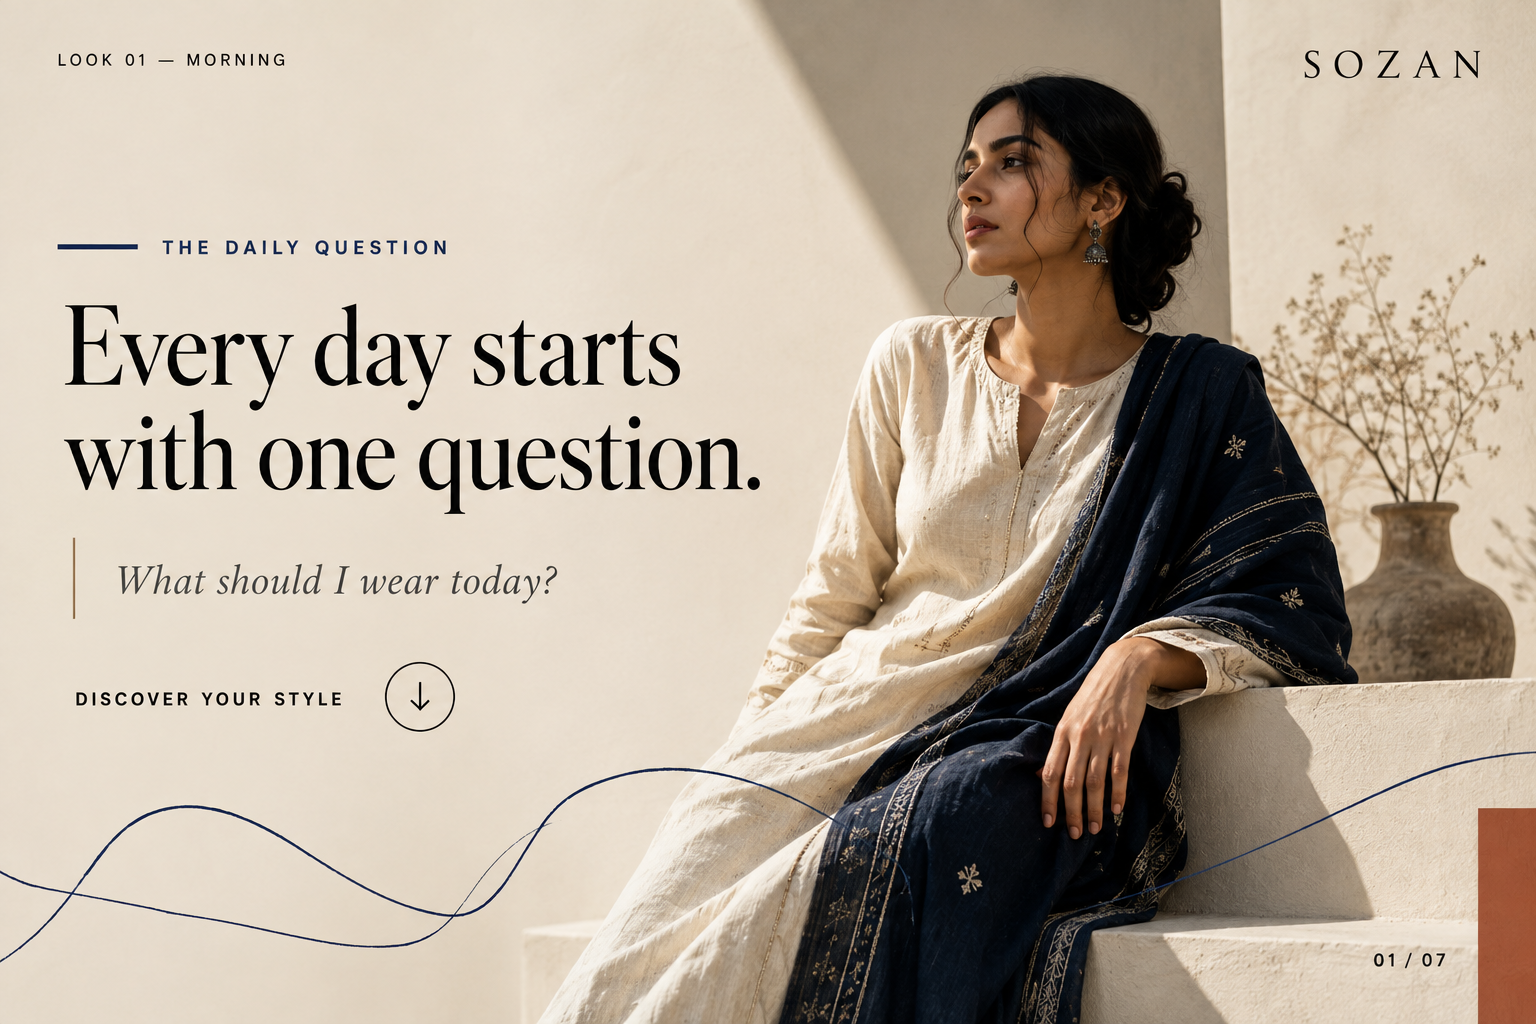
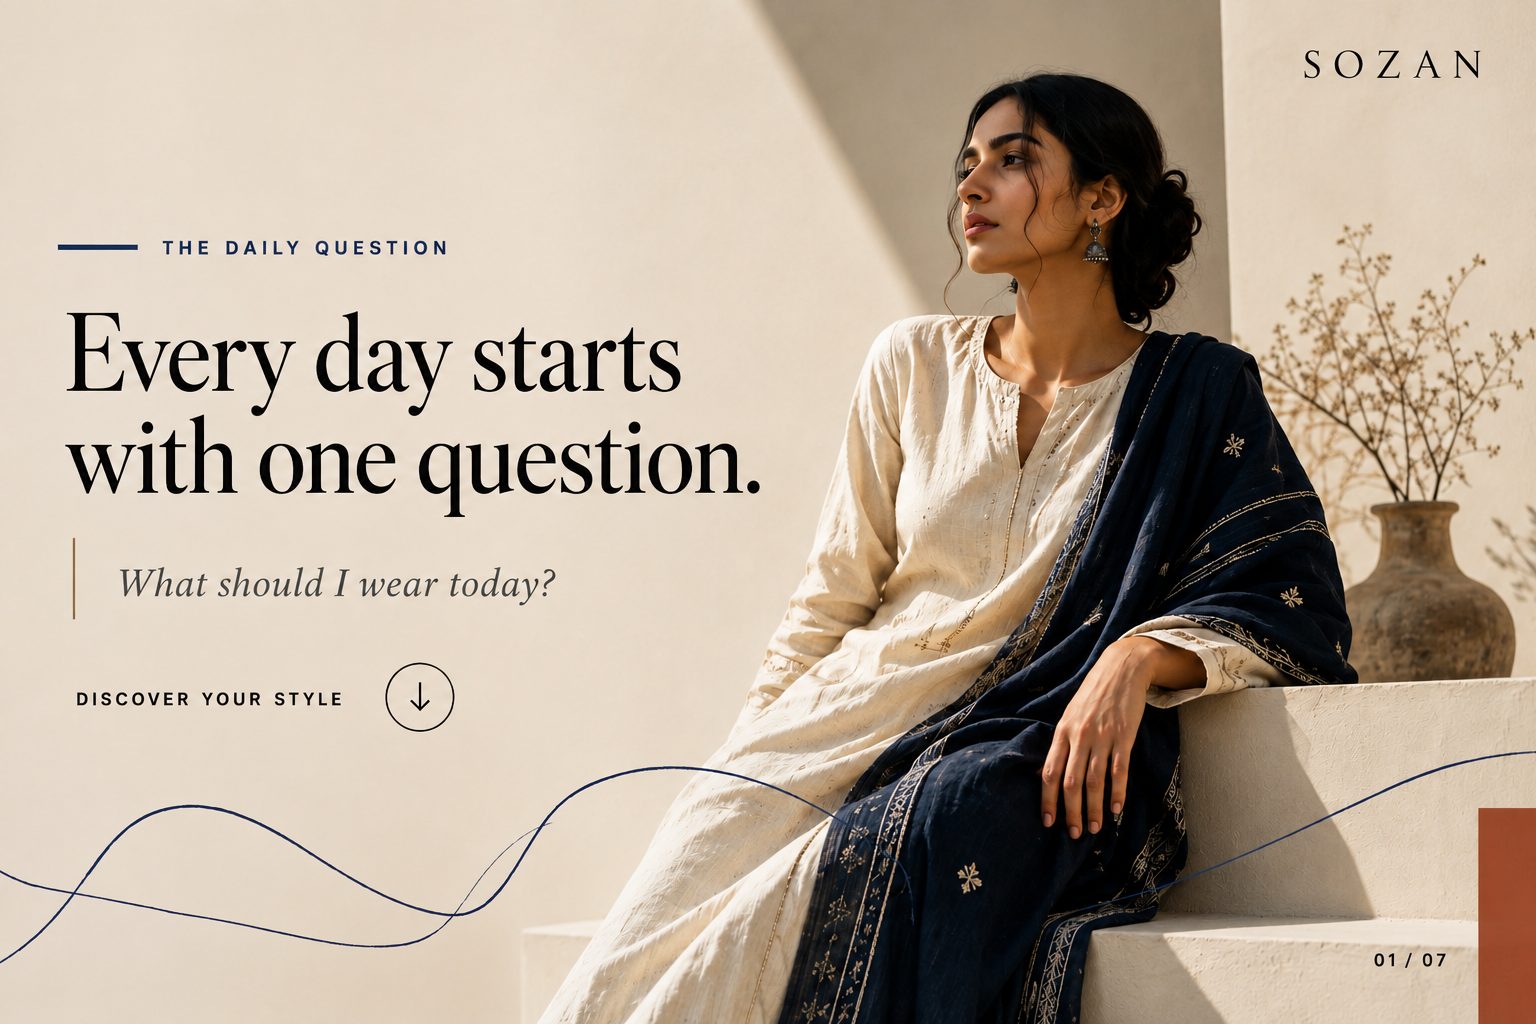
Small ui updates

diff --git a/src/components/layout/Navbar.tsx b/src/components/layout/Navbar.tsx
@@ -30,10 +30,7 @@ const menuItems = [
   { label: "MEN", href: "/products?category=men" },
 ];
 
-export default function Navbar({
-  cartCount,
-  wishlistCount,
-}: NavbarProps) {
+export default function Navbar({ cartCount, wishlistCount }: NavbarProps) {
   const { status } = useSession();
   const isLoggedIn = status === "authenticated";
 
@@ -55,10 +52,7 @@ export default function Navbar({
   const isActive = (href: string) => {
     const cleanHref = href.split("?")[0];
 
-    return (
-      pathname === cleanHref ||
-      pathname.startsWith(`${cleanHref}/`)
-    );
+    return pathname === cleanHref || pathname.startsWith(`${cleanHref}/`);
   };
 
   useEffect(() => {
@@ -77,10 +71,8 @@ export default function Navbar({
 
       <header className="sticky top-0 z-50 border-b border-thread-grey/20 bg-muslin/95 backdrop-blur-md">
         <nav className="mx-auto flex h-[72px] max-w-[1440px] items-center justify-between px-5 sm:px-8 lg:px-12">
-
           {/* LEFT */}
           <div className="flex items-center gap-6 lg:gap-9">
-
             {/* MENU */}
             <button
               type="button"
@@ -136,17 +128,13 @@ export default function Navbar({
           ================================================= */}
 
           <div className="flex items-center gap-4 sm:gap-5">
-
             {/* SEARCH */}
             <Link
               href="/products"
               aria-label="Search"
               className="hidden text-thread-black transition-colors hover:text-awadh-ink sm:block"
             >
-              <Search
-                size={18}
-                strokeWidth={1.35}
-              />
+              <Search size={18} strokeWidth={1.35} />
             </Link>
 
             {/* WISHLIST */}
@@ -159,10 +147,7 @@ export default function Navbar({
                   : "text-thread-black hover:text-awadh-ink"
               }`}
             >
-              <Heart
-                size={19}
-                strokeWidth={1.35}
-              />
+              <Heart size={19} strokeWidth={1.35} />
 
               {wishlistCount > 0 && (
                 <span className="absolute -right-3 -top-2 min-w-[12px] text-center font-utility text-[8px] text-awadh-ink">
@@ -181,10 +166,7 @@ export default function Navbar({
                   : "text-thread-black hover:text-awadh-ink"
               }`}
             >
-              <ShoppingBag
-                size={19}
-                strokeWidth={1.35}
-              />
+              <ShoppingBag size={19} strokeWidth={1.35} />
 
               {cartCount > 0 && (
                 <span className="absolute -right-3 -top-2 min-w-[12px] text-center font-utility text-[8px] text-awadh-ink">
@@ -196,7 +178,6 @@ export default function Navbar({
             {/* ACCOUNT */}
             {isLoggedIn ? (
               <div className="flex items-center gap-4 border-l border-thread-grey/25 pl-4 sm:pl-5">
-
                 <Link
                   href="/orders"
                   aria-label="My orders"
@@ -206,10 +187,7 @@ export default function Navbar({
                       : "text-thread-black hover:text-awadh-ink"
                   }`}
                 >
-                  <Package
-                    size={17}
-                    strokeWidth={1.35}
-                  />
+                  <Package size={17} strokeWidth={1.35} />
                 </Link>
 
                 <Link
@@ -217,10 +195,7 @@ export default function Navbar({
                   aria-label="Account"
                   className="hidden text-thread-black transition-colors hover:text-awadh-ink sm:block"
                 >
-                  <User
-                    size={18}
-                    strokeWidth={1.35}
-                  />
+                  <User size={18} strokeWidth={1.35} />
                 </Link>
 
                 <button
@@ -229,10 +204,7 @@ export default function Navbar({
                   aria-label="Logout"
                   className="hidden text-thread-grey transition-colors hover:text-thread-black md:block"
                 >
-                  <LogOut
-                    size={16}
-                    strokeWidth={1.35}
-                  />
+                  <LogOut size={16} strokeWidth={1.35} />
                 </button>
               </div>
             ) : (
@@ -240,15 +212,9 @@ export default function Navbar({
                 href="/login"
                 className="flex items-center border-l border-thread-grey/25 pl-4 font-utility text-[9px] tracking-[0.18em] text-thread-black transition-colors hover:text-awadh-ink sm:pl-5"
               >
-                <span className="hidden sm:inline">
-                  ACCOUNT
-                </span>
+                <span className="hidden sm:inline">ACCOUNT</span>
 
-                <LogIn
-                  size={18}
-                  strokeWidth={1.35}
-                  className="sm:hidden"
-                />
+                <LogIn size={18} strokeWidth={1.35} className="sm:hidden" />
               </Link>
             )}
           </div>
@@ -261,7 +227,6 @@ export default function Navbar({
 
       {menuOpen && (
         <div className="fixed inset-0 z-[100]">
-
           {/* BACKDROP */}
           <button
             type="button"
@@ -272,14 +237,9 @@ export default function Navbar({
 
           {/* DRAWER */}
           <aside className="relative flex h-full w-full max-w-[460px] flex-col bg-muslin px-6 py-6 shadow-2xl sm:px-10">
-
             {/* DRAWER HEADER */}
             <div className="flex items-start justify-between border-b border-thread-grey/25 pb-6">
-
-              <Link
-                href="/"
-                onClick={() => setMenuOpen(false)}
-              >
+              <Link href="/" onClick={() => setMenuOpen(false)}>
                 <p className="font-brand text-lg tracking-[0.2em] text-thread-black">
                   SOZAN
                 </p>
@@ -295,16 +255,12 @@ export default function Navbar({
                 aria-label="Close menu"
                 className="flex h-10 w-10 items-center justify-center border border-thread-grey/30 text-thread-black transition-all duration-300 hover:bg-thread-black hover:text-muslin"
               >
-                <X
-                  size={17}
-                  strokeWidth={1.35}
-                />
+                <X size={17} strokeWidth={1.35} />
               </button>
             </div>
 
             {/* NAVIGATION */}
             <div className="flex-1 py-10">
-
               <div className="mb-7 flex items-center gap-3">
                 <span className="h-px w-8 bg-awadh-ink" />
 
@@ -322,7 +278,6 @@ export default function Navbar({
                     className="group flex items-center justify-between border-b border-thread-grey/20 py-5"
                   >
                     <div className="flex items-center gap-6">
-
                       <span className="font-utility text-[8px] tracking-[0.18em] text-thread-grey">
                         0{index + 1}
                       </span>
@@ -344,13 +299,11 @@ export default function Navbar({
 
             {/* ACCOUNT */}
             <div className="border-t border-thread-grey/20 pt-7">
-
               <p className="mb-5 font-utility text-[8px] tracking-[0.24em] text-thread-grey">
                 YOUR SPACE
               </p>
 
               <div className="flex flex-wrap gap-x-7 gap-y-5">
-
                 <Link
                   href="/wishlist"
                   onClick={() => setMenuOpen(false)}

diff --git a/src/components/home/HowItWorks.tsx b/src/components/home/HowItWorks.tsx
@@ -8,7 +8,7 @@ export default function HowItWorks() {
     },
     {
       number: "02",
-      title: "Discover new combinations",
+      title: "Discover new looks",
       description:
         "Explore unexpected pairings and fresh ways to bring familiar pieces together.",
     },
@@ -62,9 +62,9 @@ export default function HowItWorks() {
             {steps.map((step, index) => (
               <div
                 key={step.number}
-                className={`group relative min-h-[320px] px-0 py-12 sm:min-h-[360px] sm:py-16 lg:px-10 ${
+                className={`group relative min-h-[420px] px-0 py-12 sm:min-h-[440px] sm:py-16 lg:min-h-[460px] lg:px-10 ${
                   index !== 0
-                    ? "border-t border-thread-grey/30 lg:border-t-0 lg:border-l"
+                    ? "border-t border-thread-grey/20 lg:border-t-0 lg:border-l"
                     : ""
                 }`}
               >
